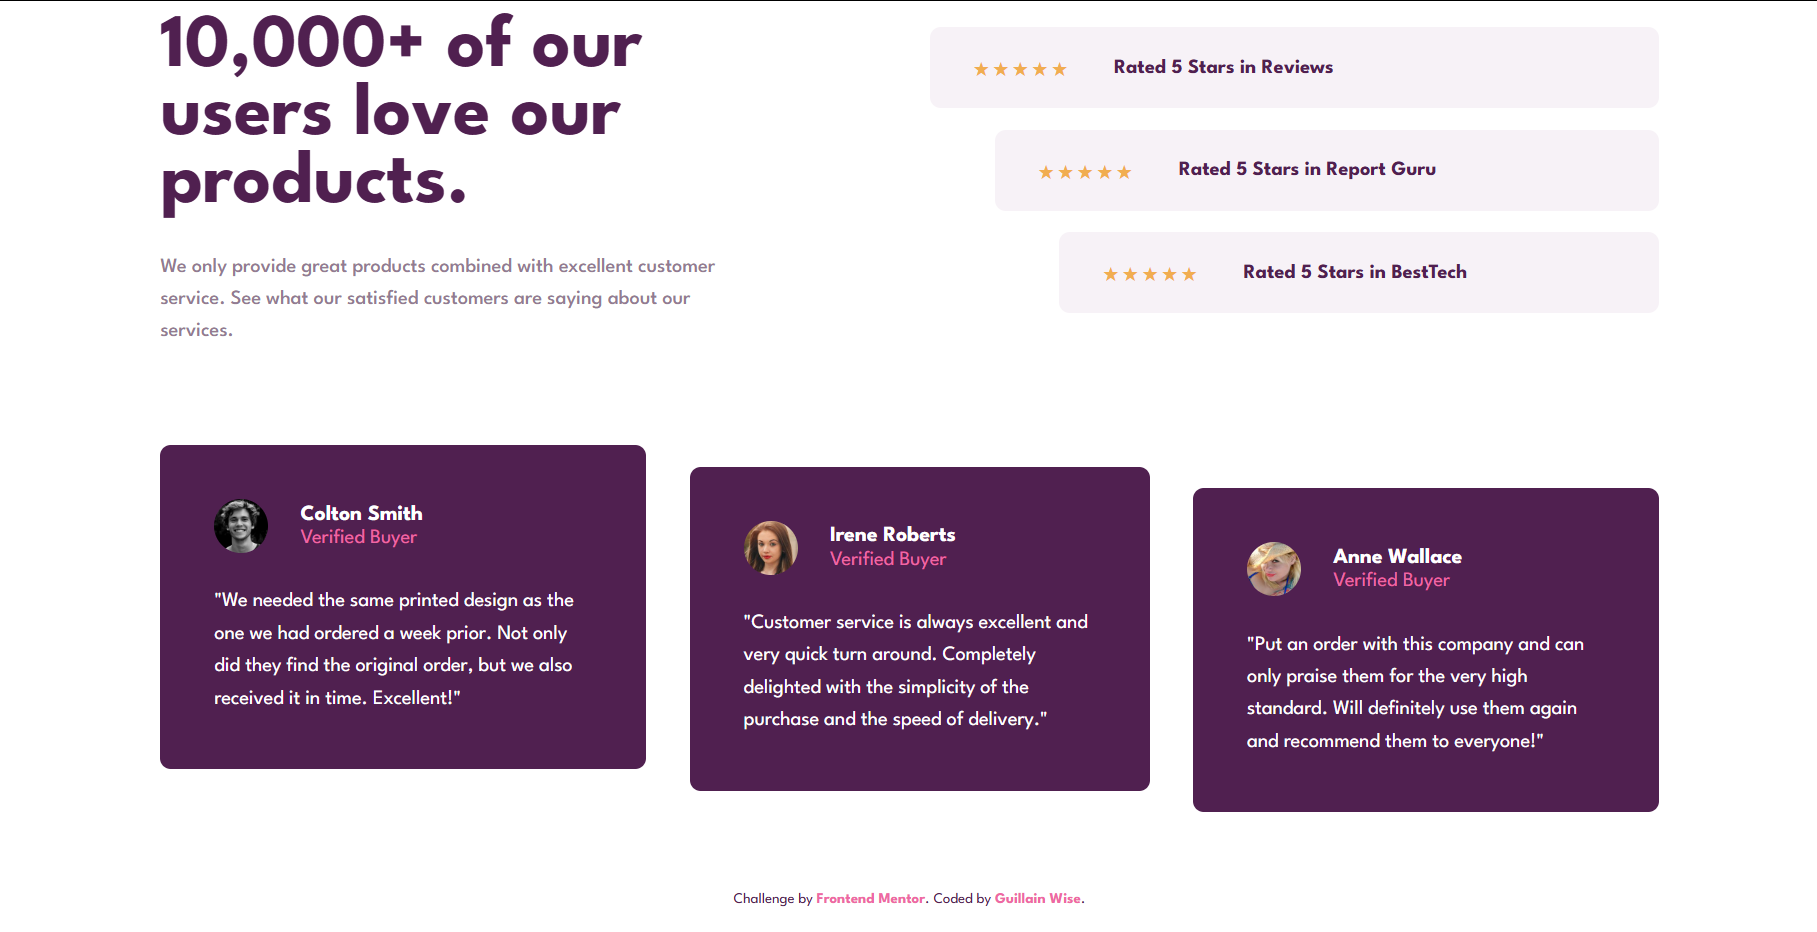
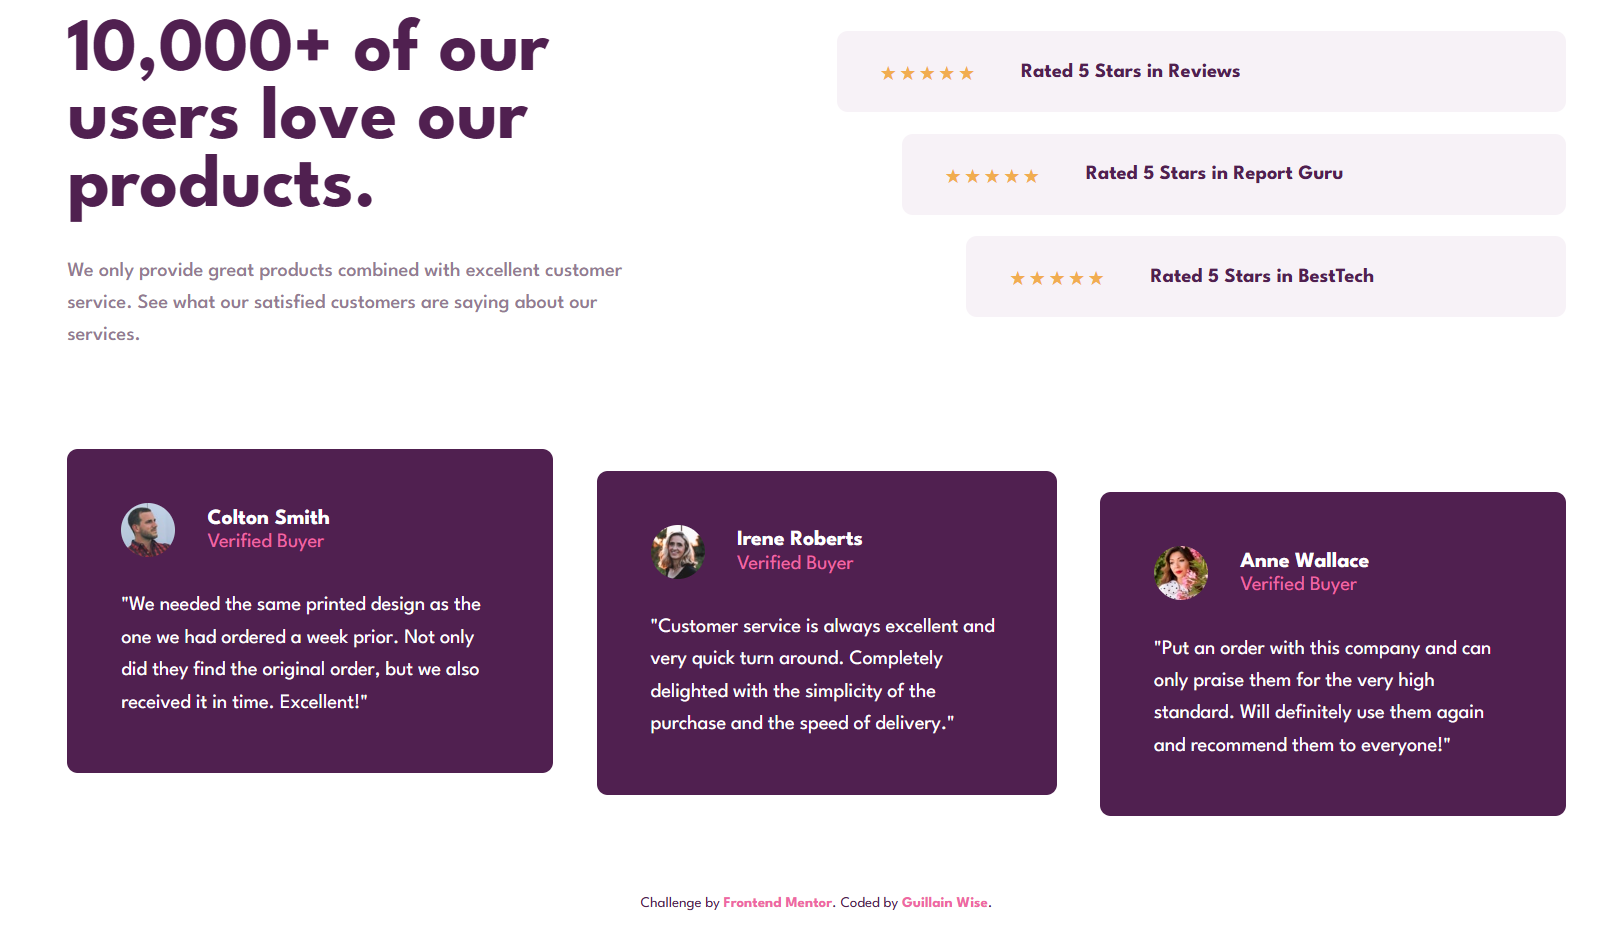
feat: #3 adding links on my README file

diff --git a/index.html b/index.html
@@ -38,7 +38,7 @@
         <div class="testimonials-container">
           <article class="testimonial">
             <header class="user-info">
-              <img src="https://i.pravatar.cc/150?u=colton" alt="Colton Smith"/>
+              <img src="./images/image-colton.jpg" alt="Colton Smith"/>
               <div>
                 <h2>Colton Smith</h2>
                 <p class="status">Verified Buyer</p>
@@ -51,7 +51,7 @@
 
           <article class="testimonial">
             <header class="user-info">
-              <img src="https://i.pravatar.cc/150?u=irene" alt="Irene Roberts"/>
+              <img src="./images/image-irene.jpg" alt="Irene Roberts"/>
               <div>
                 <h2>Irene Roberts</h2>
                 <p class="status">Verified Buyer</p>
@@ -64,7 +64,7 @@
 
           <article class="testimonial">
             <header class="user-info">
-              <img src="https://i.pravatar.cc/150?u=anne" alt="Anne Wallace" />
+              <img src="./images/image-anne.jpg" alt="Anne Wallace" />
               <div>
                 <h2>Anne Wallace</h2>
                 <p class="status">Verified Buyer</p>

diff --git a/README.md b/README.md
@@ -34,8 +34,8 @@ Users should be able to:
 
 ### Links
 
-- Solution URL: [Add solution URL here]()
-- Live Site URL: [Add live site URL here]()
+- Solution URL: [Click here](https://www.frontendmentor.io/solutions/social-proof-section-wise-Hql9Ftlb1R)
+- Live Site URL: [click here](https://freedev-group.github.io/Social-Proof-Section-Wise/)
 
 ## My process
 
